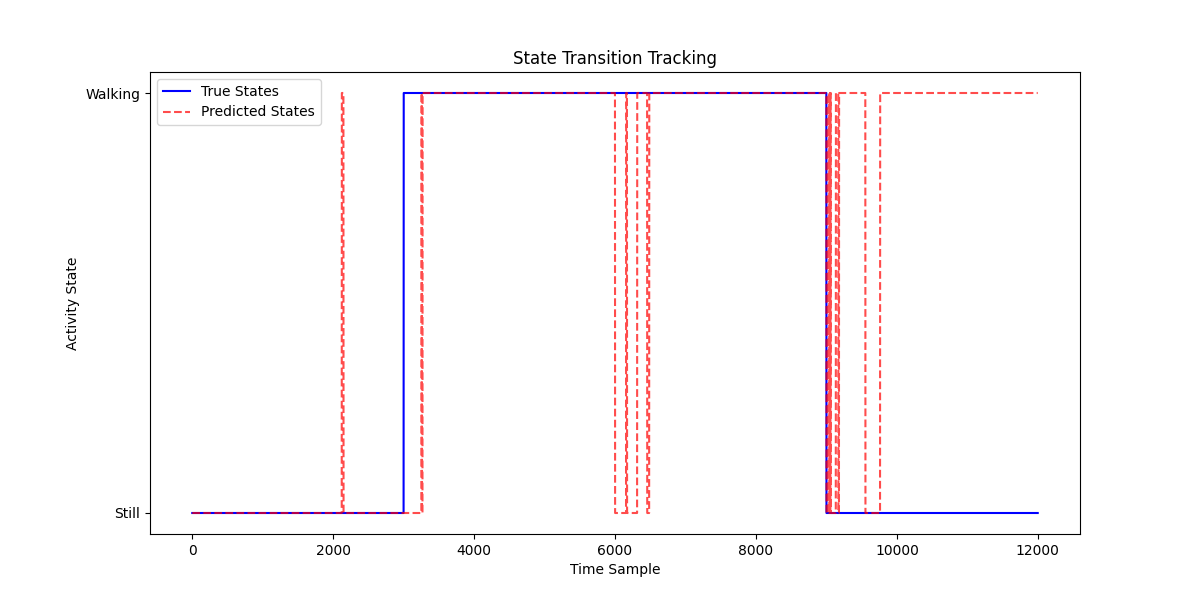
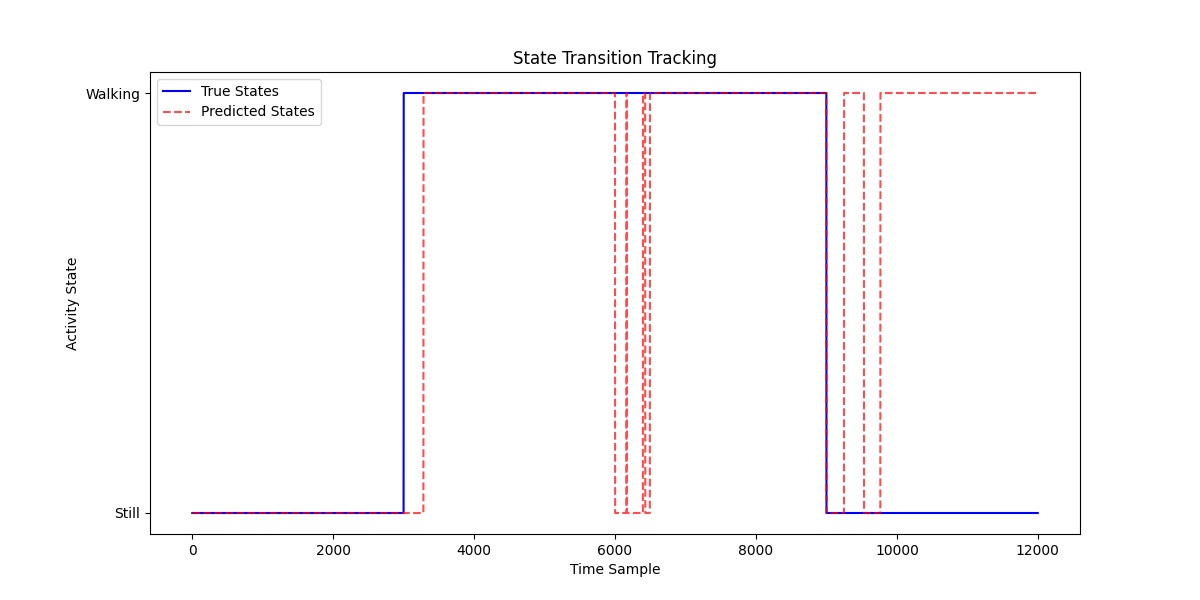
init based on data instead of random

diff --git a/main.py b/main.py
@@ -28,38 +28,20 @@ def load_sequences(data_folder, file_extension='.txt'):
     print(f"Loaded {len(sequences)} sequences from {data_folder}")
     return sequences, valid_files
 
-def initialize_hmm(n_states, all_train_obs):
-    print("Initializing HMM with random parameters...")
-    # Compute global data statistics for initialization scaling
-    global_min = np.min(all_train_obs, axis=0)
-    global_max = np.max(all_train_obs, axis=0)
-    global_std = np.std(all_train_obs, axis=0)
-    
+def initialize_hmm(activity_data):
+    print("Initializing HMM...")
     distributions = []
-    
-    # Initialize Gaussian distributions with random parameters scaled to data range
-    for i in range(n_states):
-        # Random mean within [global_min, global_max]
-        means = global_min + np.random.rand(*global_min.shape) * (global_max - global_min)
-        
-        # Random variances scaled by global std with random factor (0.5-1.5)
-        rand_factor = 0.5 + np.random.rand(*global_std.shape)
-        variances = (global_std * rand_factor) ** 2
-        
-        # Diagonal covariance matrix
-        cov = np.diag(variances)
+    for idx, state_data in enumerate(activity_data):
+        print(f"  Preparing state {idx+1} with {len(state_data)} sequences")
+        all_obs = np.concatenate(state_data)
+        means = np.mean(all_obs, axis=0)
+        cov = np.cov(all_obs.T)
         distributions.append(GaussD(means=means, cov=cov))
-    
-    # Random initial state probabilities (normalized)
-    initial_prob = np.random.rand(n_states)
-    initial_prob /= np.sum(initial_prob)
-    
-    # Random transition matrix (rows normalized to sum to 1)
-    trans_prob = np.random.rand(n_states, n_states)
-    trans_prob /= np.sum(trans_prob, axis=1, keepdims=True)
-    
+    n_states = len(activity_data)
+    initial_prob = np.ones(n_states) / n_states
+    trans_prob = np.ones((n_states, n_states)) / n_states
     mc = MarkovChain(initial_prob, trans_prob)
-    print("HMM random initialization done.")
+    print("HMM initialization done.")
     return HMM(mc, distributions)
 
 def train_hmm(model, train_sequences, n_iter=20):
@@ -151,28 +133,27 @@ def main():
     pure_activities = ['Still', 'Walking']
     mixed_activity = 'Mixed'
     
-    # Load pure activity data
-    pure_train_sequences = []
+    # Load pure activity training data per activity
+    activity_data = []  # Will hold sequences for each pure activity [ [still_seq1, ...], [walking_seq1, ...] ]
     for activity in pure_activities:
         activity_dir = os.path.join('Data', 'Train', activity)
         seqs, files = load_sequences(activity_dir)
         print(f"  Loaded {len(seqs)} {activity} training files")
-        pure_train_sequences.extend(seqs)
+        activity_data.append(seqs)
     
     # Load mixed activity data
     mixed_dir = os.path.join('Data', 'Train', mixed_activity)
     mixed_sequences, mixed_files = load_sequences(mixed_dir)
     print(f"  Loaded {len(mixed_sequences)} mixed training files")
     
-    # Combine all training data
-    train_sequences = pure_train_sequences + mixed_sequences
+    # Combine all training data (for training, not initialization)
+    train_sequences = []
+    for seq_list in activity_data:
+        train_sequences.extend(seq_list)
+    train_sequences.extend(mixed_sequences)
     
-    # Create array of all observations for initialization
-    all_train_obs = np.concatenate(train_sequences)
-    
-    # Initialize HMM with random parameters
-    n_states = len(pure_activities)
-    hmm = initialize_hmm(n_states, all_train_obs)
+    # Initialize HMM using activity-specific data (only pure activities)
+    hmm = initialize_hmm(activity_data)
     
     # Train HMM
     train_hmm(hmm, train_sequences, n_iter=10)

diff --git a/PattRecClasses/HMM.py b/PattRecClasses/HMM.py
@@ -215,7 +215,7 @@ class HMM:
                     self.outputDistr[j].cov = cov
                     self.outputDistr[j].stdevs = np.sqrt(np.diag(cov))
                     self.outputDistr[j].variance = np.diag(cov)
-            print(f"[HMM] Updated transition matrix: \n{self.stateGen.q} {self.stateGen.A}")
+            print(f"[HMM] Updated transition matrix: \n{self.stateGen.q} \n {self.stateGen.A}")
 
     def viterbi(self, observations):
         print("[HMM] Starting Viterbi decoding")
